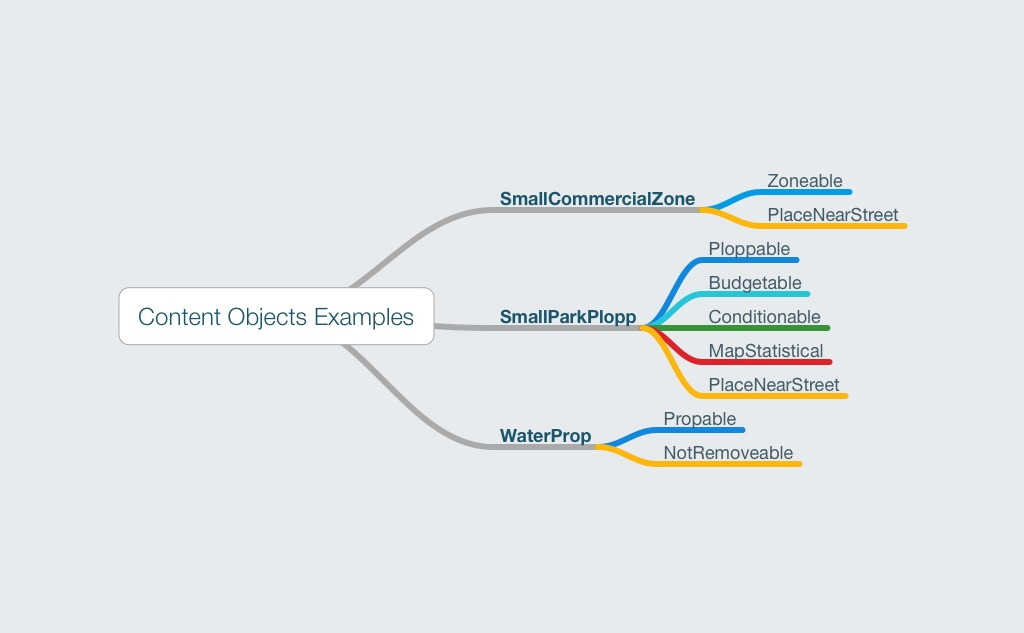
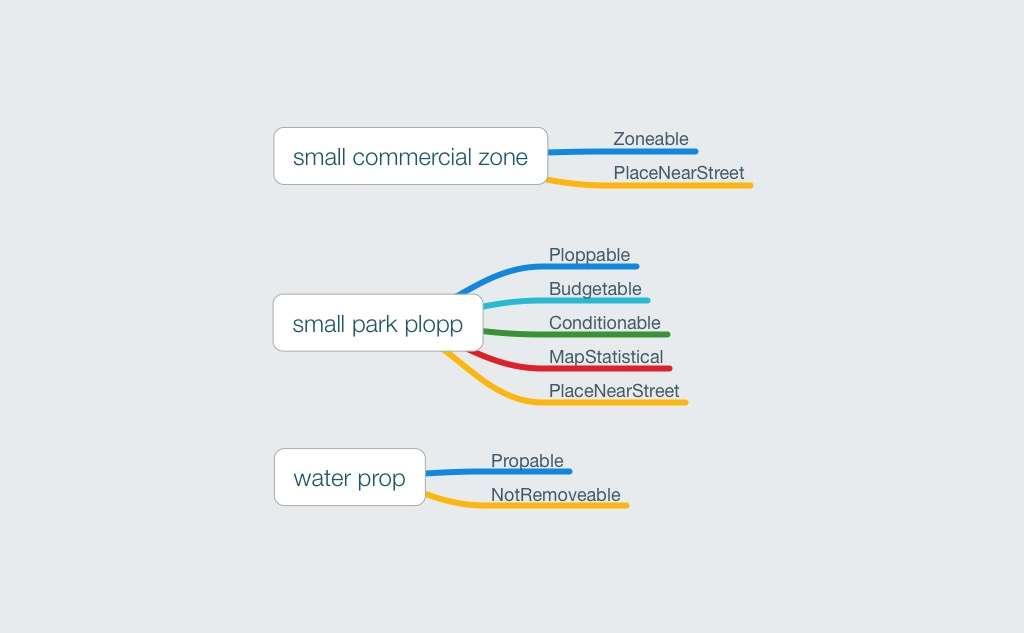
updated readme

Changed region(s): [[0.125, 0.2101, 0.9062, 0.8104], [0.375, 0.6003, 0.4375, 0.6904]]

diff --git a/README.md b/README.md
@@ -17,12 +17,12 @@ specific terms related to the data structure.
 
 ### Overview
 
-![image](https://github.com/SteveRohrlack/CitySimCore/tree/master/docs/readme-img/datastructure-v0.1.png)
+### City
 
-### Map
+The "City" is composed of a multi-layerd map (CityMap) and
+multiple statistical information.
 
-The "city" is represented as a 2D "map". The map is to be seen as a
-top-down view of a city.
+### CityMap
 
 The map is composed of multiple "layers", each holding information
 regarding a different aspects of the map (for example: land value).
@@ -109,7 +109,9 @@ These behaviours are implemented using protocol composition.
 * **must be placed near street:** tile must be adjacent to street
 * **includes map statistics:** tile contains statistic information
 * **can have conditions:** condition example: on fire
-* **contains cost / budget information:** either one time cost or running cost or both
+* **contains budget information:** one time cost and/or running cost
+
+##### example content objects with tile attributes
 
 ![image](https://raw.githubusercontent.com/SteveRohrlack/CitySimCore/master/docs/readme/content-objects-examples.png)
 
@@ -147,7 +149,7 @@ It is planned to implement numerous actors, for example:
 * ZoneDevelopmentActor
 
 Example: The "Budget" actor updates the currently available budget.
-It runs every 10 ticks and subtracts the current total ongoing cost 
+It runs every 10 ticks and subtracts the current total ongoing cost
 from the budget and adds collected taxes to it.
 
 ## Progress
